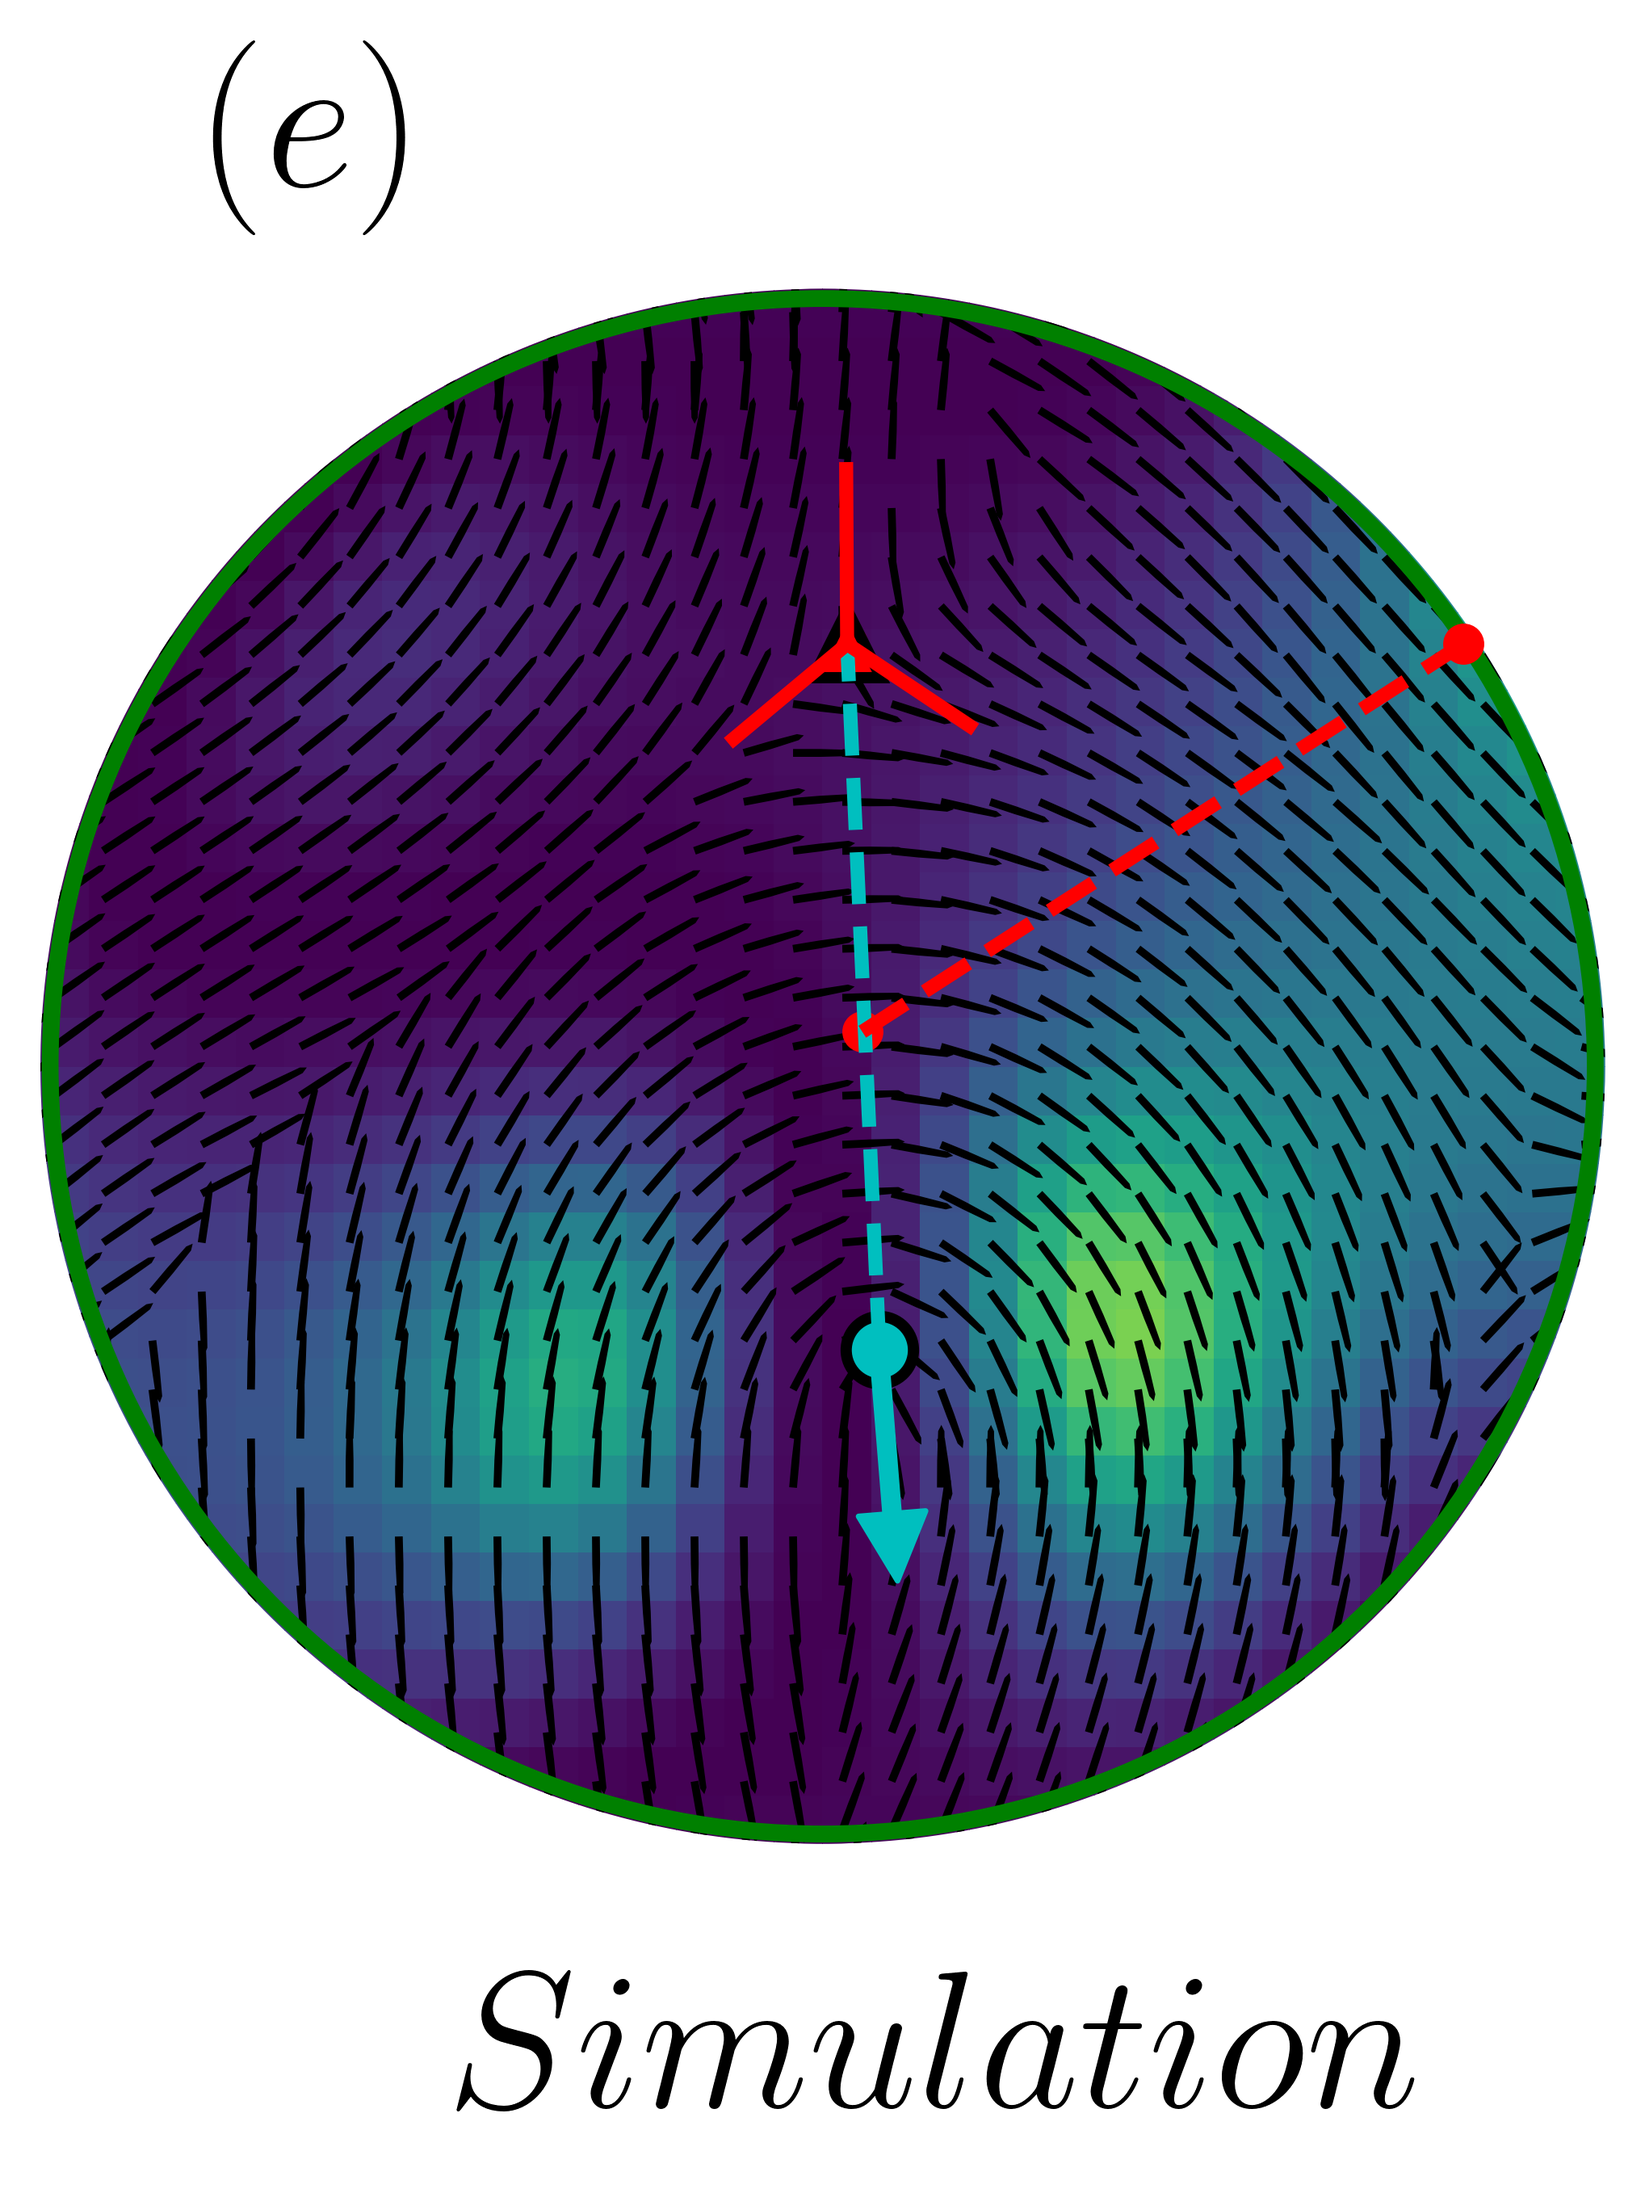
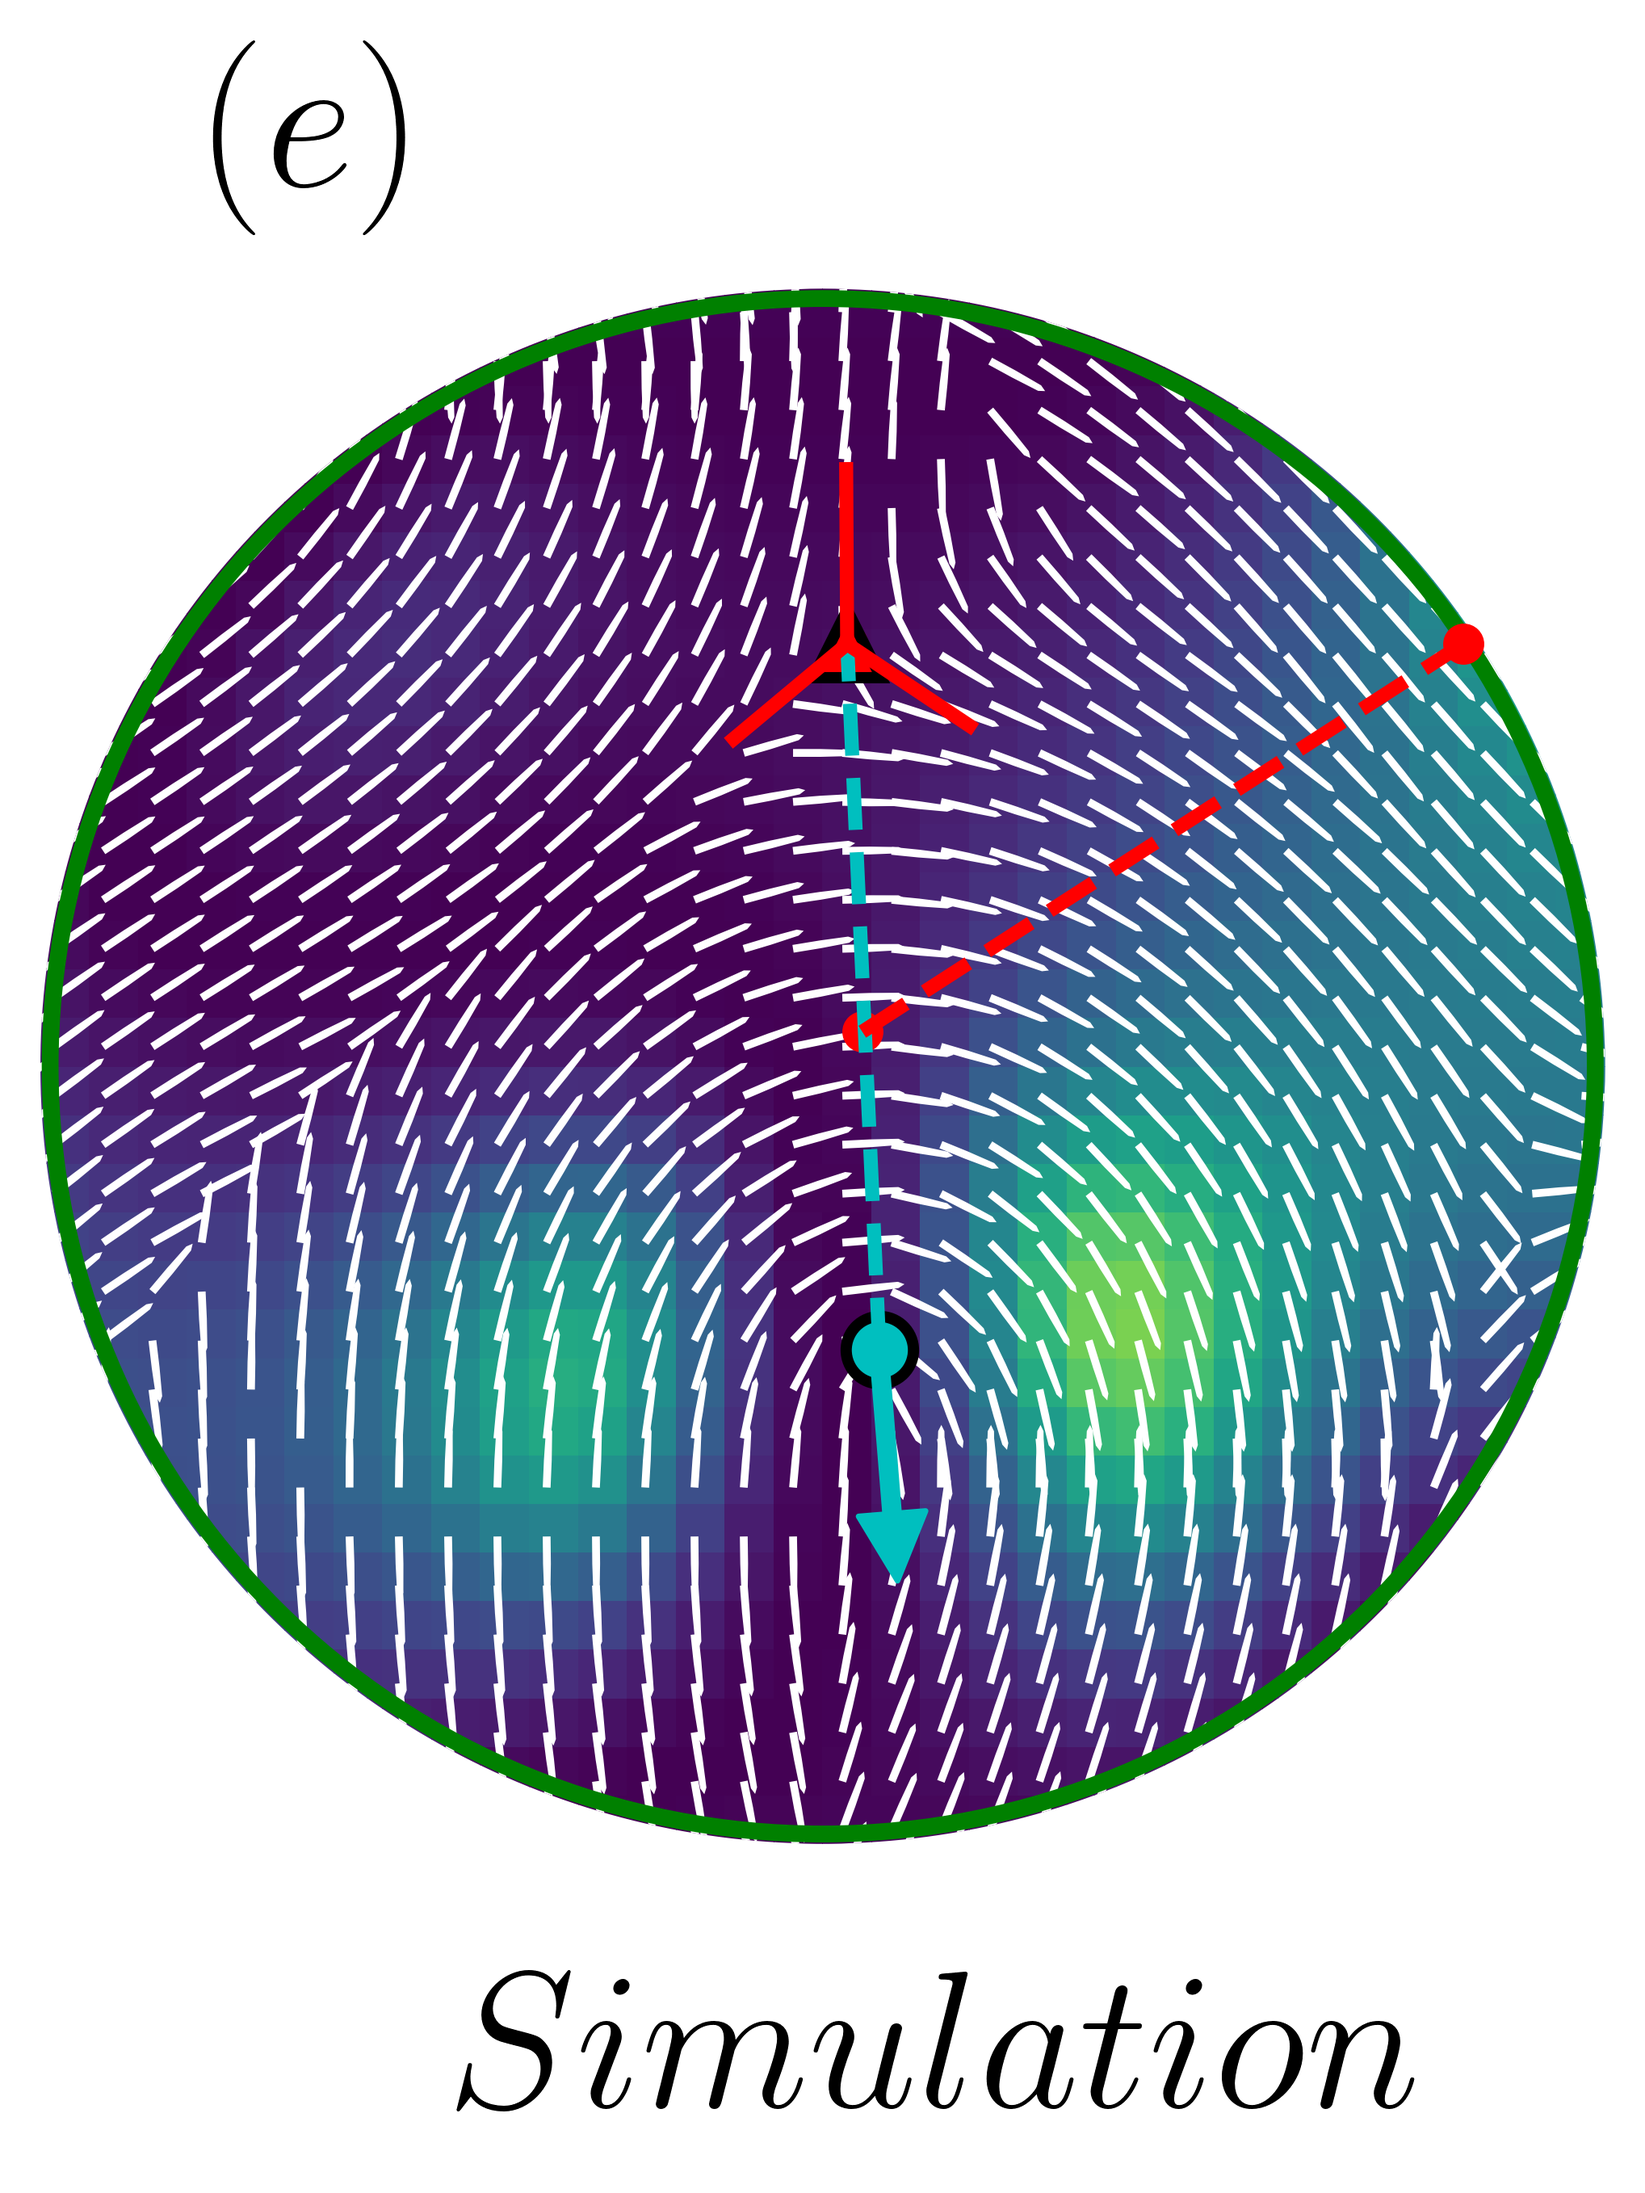
add

Changed region(s): [[0.0309, 0.1238, 0.9588, 0.8354]]

diff --git a/epr_defect_plots/plot_phi_epr.py b/epr_defect_plots/plot_phi_epr.py
@@ -297,7 +297,7 @@ circle = matplotlib.path.Path(verts * radius + center)
 #patch = mpatches.PathPatch(path, facecolor='none', edgecolor='k')
 
 vorticity1=ax.pcolor(grad1,cmap='viridis',vmin=0,vmax=0.022,clip_path=(circle, ax.transAxes))
-plt.quiver(X,Y,np.cos(w),np.sin(w),scale=20., color='black',
+plt.quiver(X,Y,np.cos(w),np.sin(w),scale=20., color='white',
         width=0.005, headwidth=0.8, headlength=0.8,clip_path=(circle, ax.transAxes))
 #plt.streamplot(X,Y,-vy,-vx, color='white',arrowsize=1,arrowstyle='-|>',density=1)
 ax.spines["bottom"].set_linewidth(2)
@@ -429,7 +429,7 @@ circle = matplotlib.path.Path(verts * radius + center)
 
 
 vorticity1=ax.pcolor(grad1,cmap='viridis',vmin=0,vmax=0.005,clip_path=(circle, ax.transAxes))
-plt.quiver(X,Y,np.cos(w),np.sin(w),scale=25., color='black',
+plt.quiver(X,Y,np.cos(w),np.sin(w),scale=25., color='white',
         width=0.005, headwidth=0.8, headlength=0.8,clip_path=(circle, ax.transAxes))
 
         
